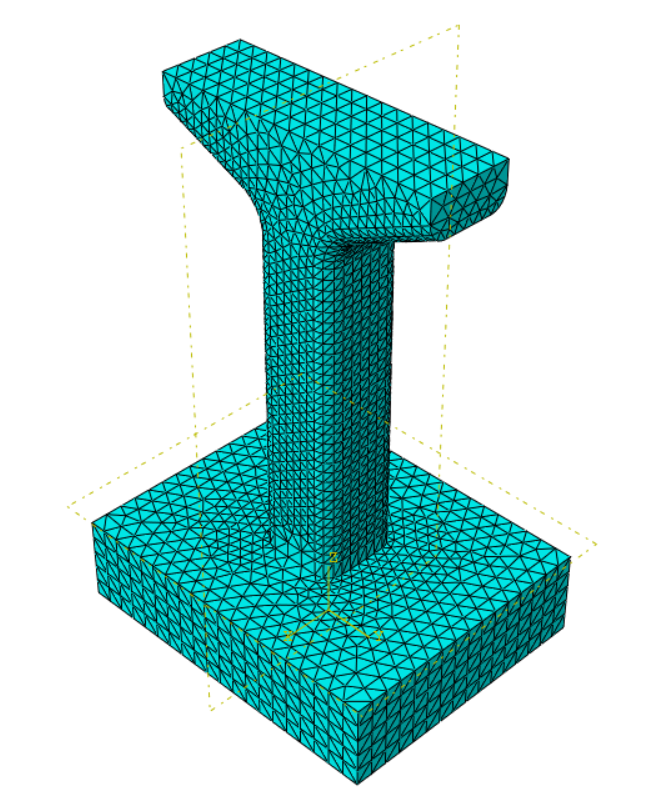
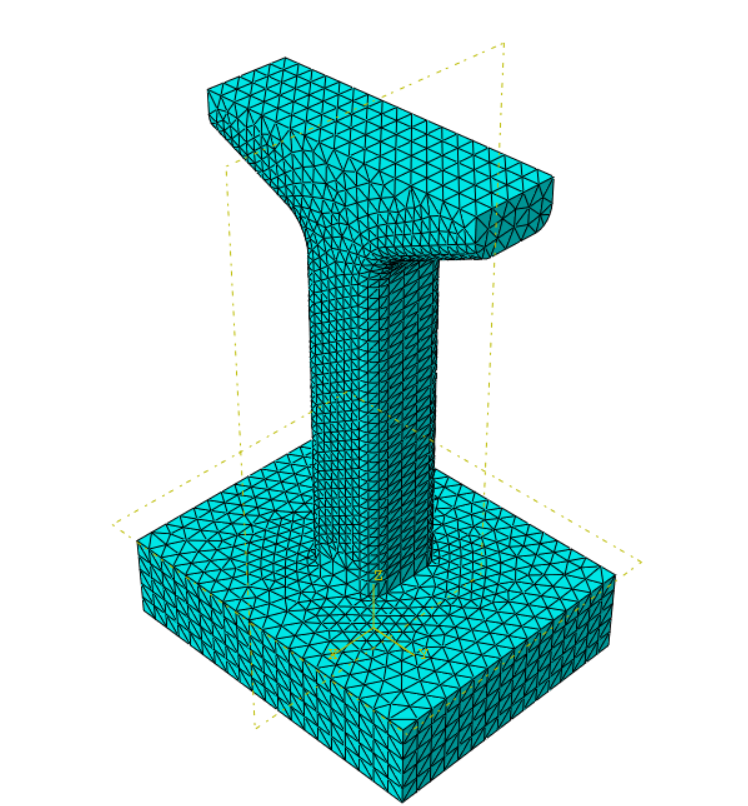
Update figures: add Local_80 mesh captures, update Local_30, job monitor, and force diagram

Changed region(s): [[0.1216, 0.0304, 0.8815, 1.0], [0.5775, 0.0608, 0.6079, 0.0911], [0.2736, 0.2127, 0.304, 0.243]]

diff --git a/README.md b/README.md
@@ -85,9 +85,9 @@ to achieve high-fidelity stress resolution around the haunch re-entrant corners 
 ![Mesh Convergence Study](images/mesh_convergence_study.png)
 
 ### mesh comparison: coarse vs fine haunch discretization
-| Mesh: Local_60 Overview | Mesh: Local_60 Haunch Detail |
+| Mesh: Local_80 Overview | Mesh: Local_80 Haunch Detail |
 | :---: | :---: |
-| ![Mesh 60 Overview](images/abaqus_mesh_local60.png) | ![Mesh 60 Detail](images/abaqus_mesh_local60_closeup.png) |
+| ![Mesh 80 Overview](images/abaqus_mesh_local80.png) | ![Mesh 80 Detail](images/abaqus_mesh_local80_closeup.png) |
 | **Mesh: Local_30 Overview (Optimal)** | **Mesh: Local_30 Haunch Detail** |
 | ![Mesh 30 Overview](images/abaqus_mesh_local30.png) | ![Mesh 30 Detail](images/abaqus_mesh_local30_closeup.png) |
 
